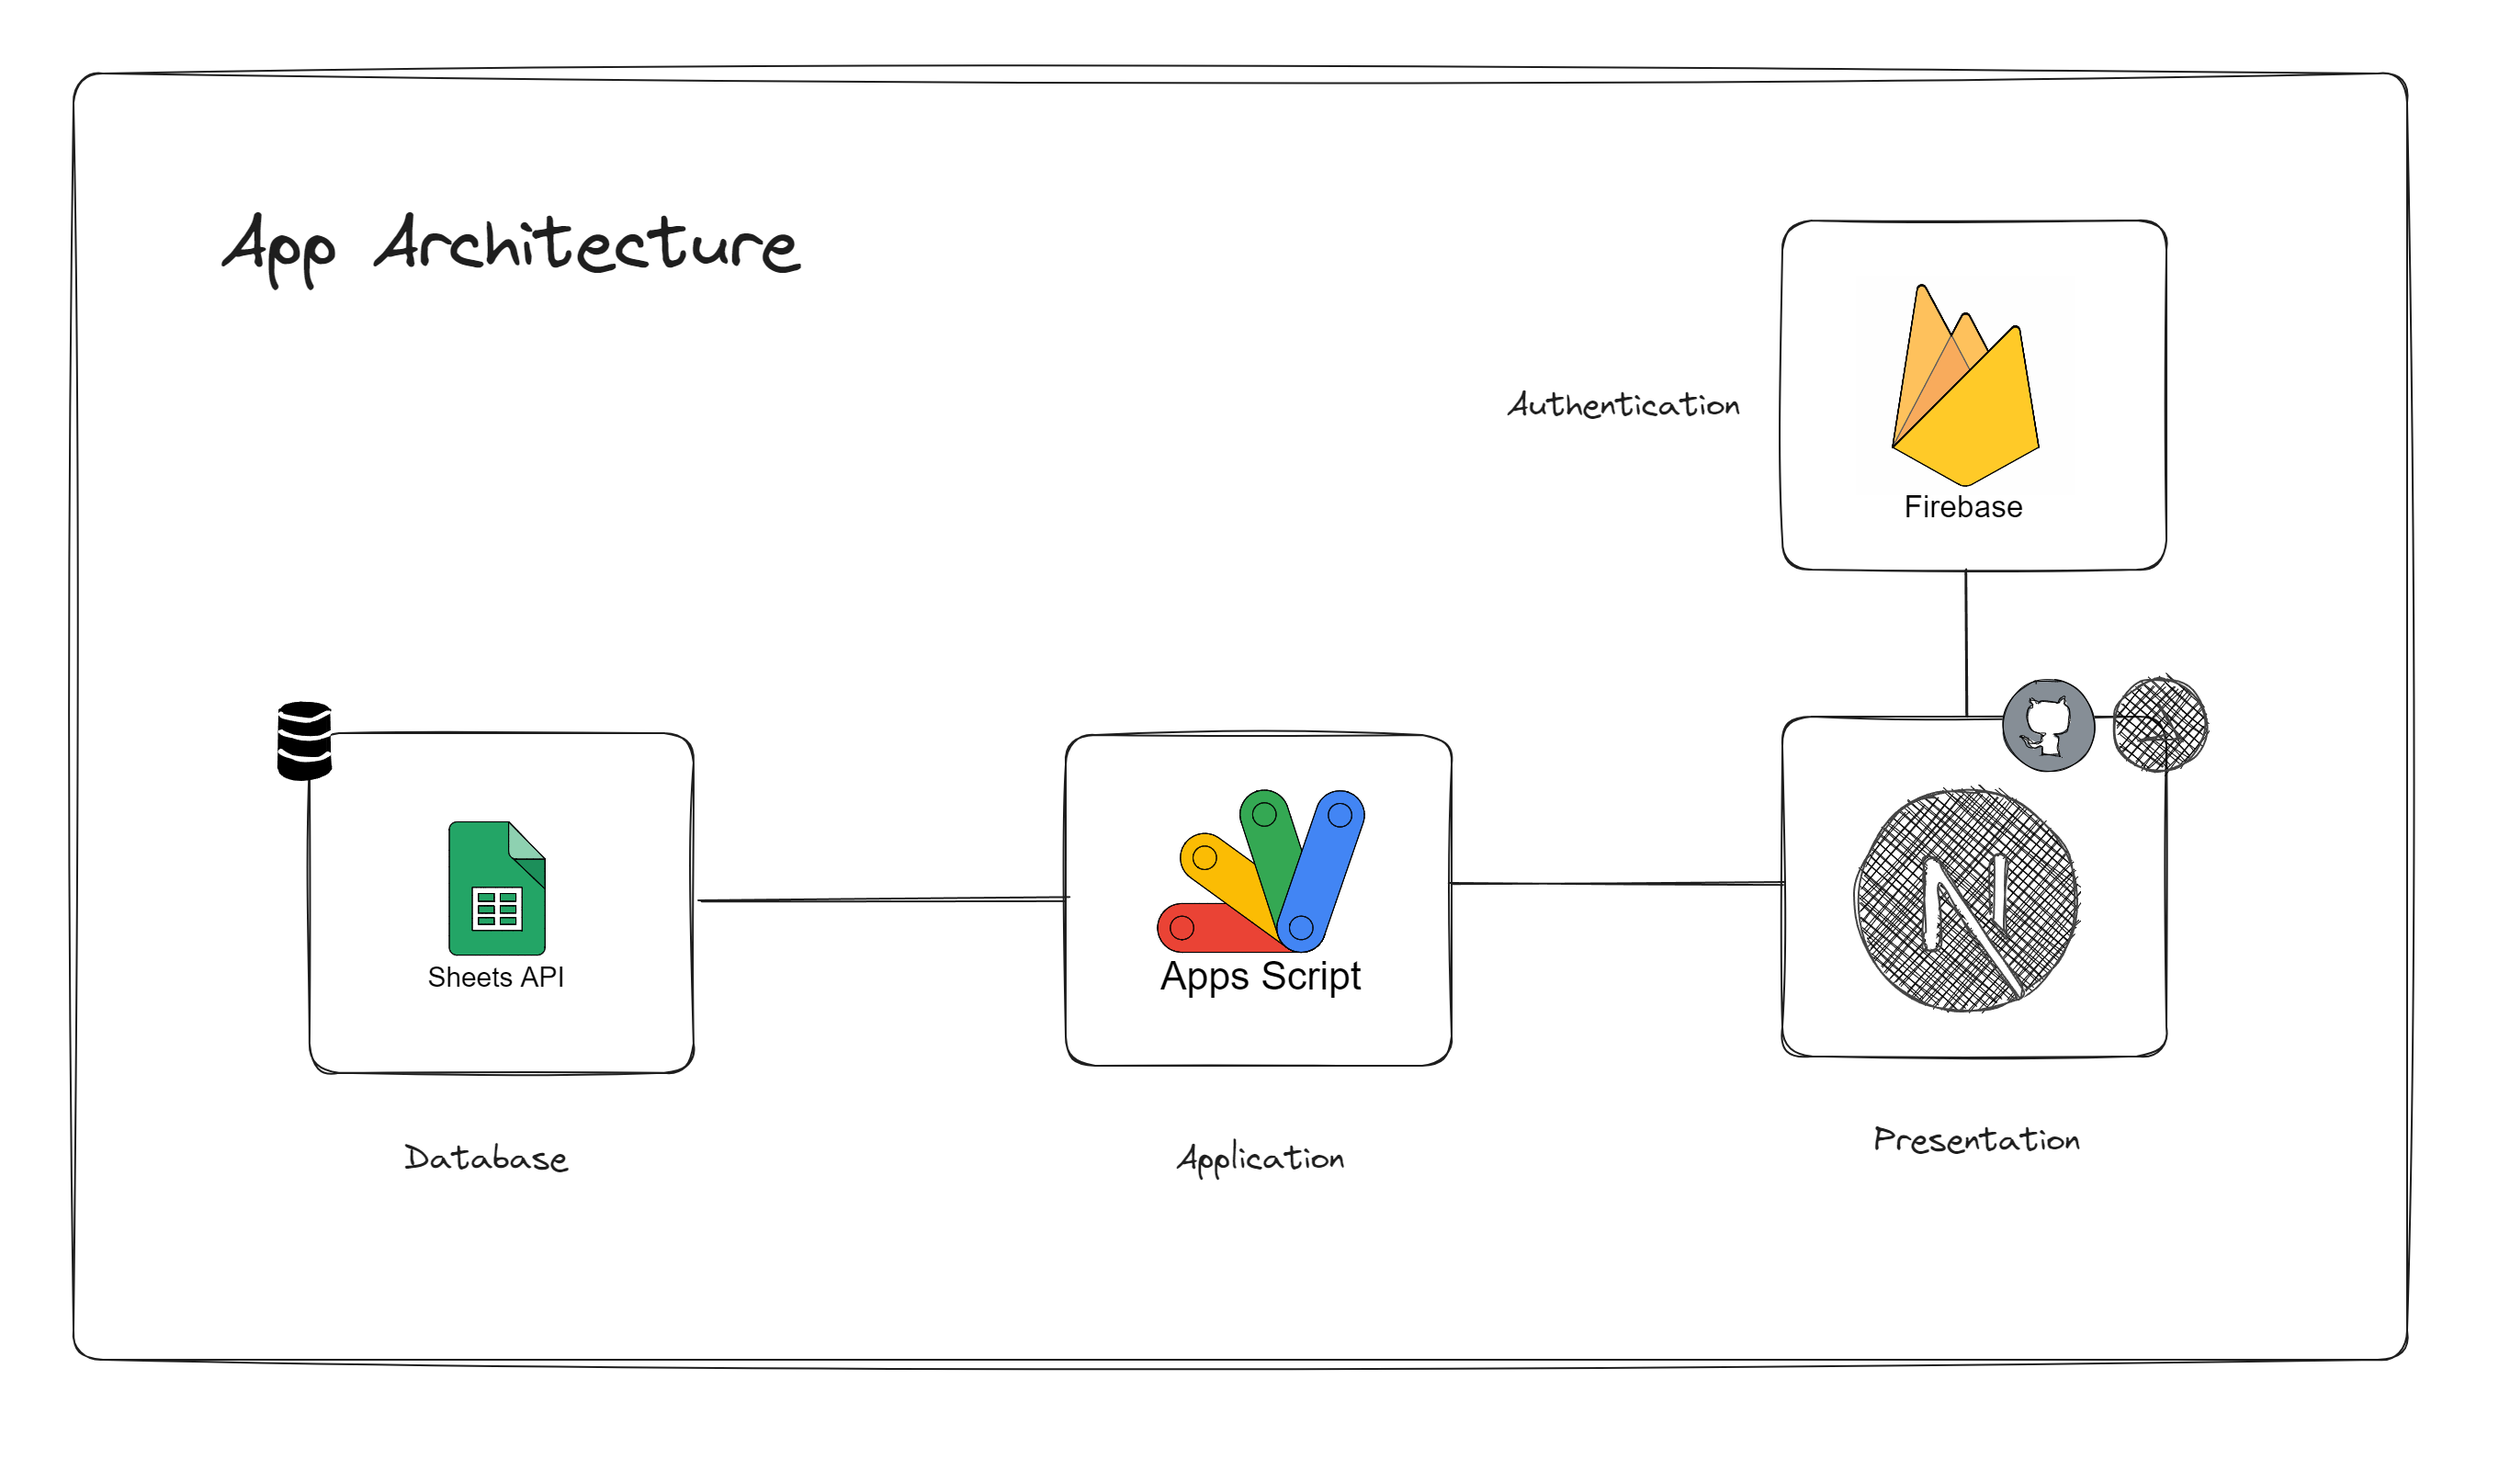
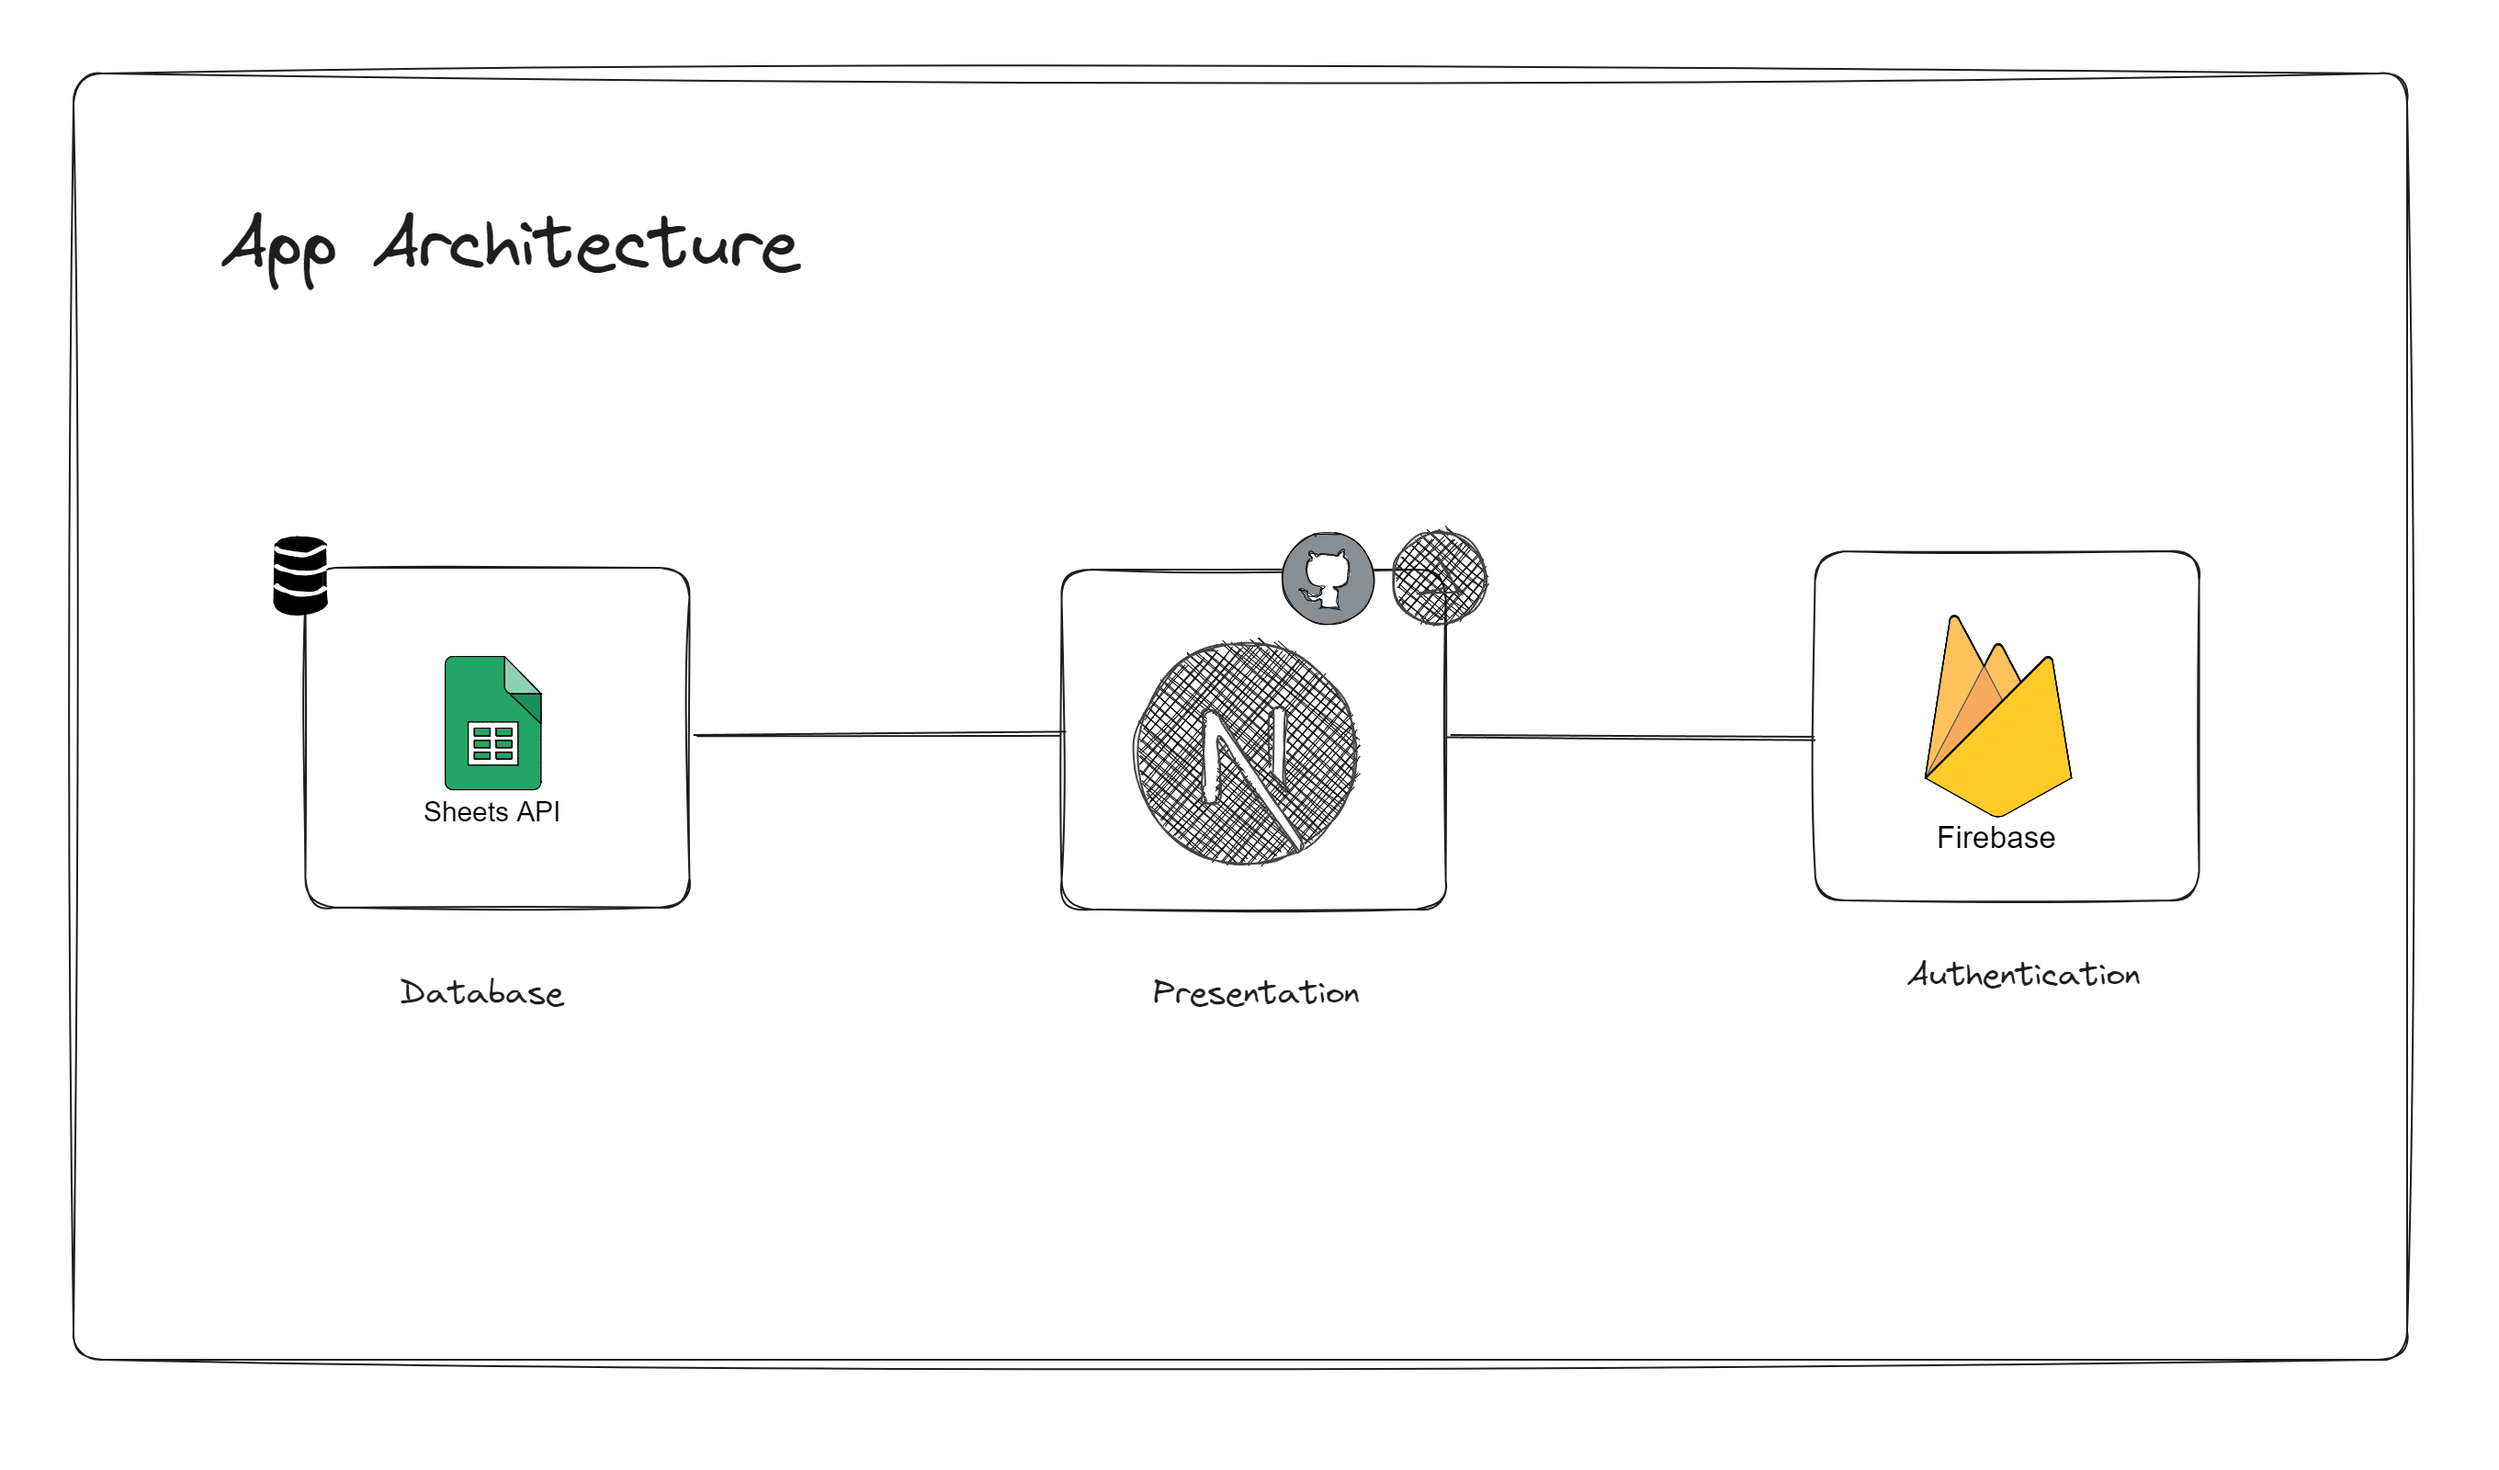
done
done migrate api from appscript to nextjs api

diff --git a/src/app/components/Chart.jsx b/src/app/components/Chart.jsx
@@ -4,60 +4,14 @@ import { useColorScheme } from "@mui/joy/styles";
 import Box from "@mui/joy/Box";
 import { ResponsiveBar } from "@nivo/bar";
 
-const data = {
-  Fisik: {
-    "Eks Kronis (Kusta, Stroke)": 3,
-    "Tubuh Punggung (Bungkuk)": 1,
-    Wicara: 4,
-    "Tubuh Kaki": 9,
-    Netra: 1,
-    Rungu: 1,
-    "Tubuh Tangan": 4,
-    "Disabilitas Lain": 1,
-  },
-  Mental: { "Psikososial (Psikotik)": 29 },
-  Intelektual: { "Down Sysdrom": 3 },
-  "Ganda/Multi": { "Lumpuh Layu/Kaku": 3, "Rungu Wicara": 1 },
-  Sensorik: { Hiperaktif: 1, Autis: 1 },
-};
-
-export default function Chart({ chartData }) {
+export default function Chart({ chartData, tipeDisabilitas }) {
   const { mode, systemMode } = useColorScheme();
-  const data = chartData.data;
+  const data = chartData;
+  // make array of my object tipeDisabilitas with Kedisabilitasan value
+  const jenisUnique = tipeDisabilitas.map((e) => e.Kedisabilitasan);
+
   const keys = Object.keys(data);
 
-  const data3 = keys.map((key) => {
-    const obj = {};
-    obj["disabilitas"] = key;
-    obj["Jumlah"] = Object.values(data[key]).reduce((a, b) => a + b, 0);
-    obj["Jenis"] = Object.keys(data[key]).map((k) => {
-      return {
-        jenis: k,
-        jumlah: data[key][k],
-      };
-    });
-
-    return obj;
-  });
-
-  // get array unique values of object in jenis
-  const jenis = data3.map((d) => d.Jenis).flat();
-  const jenisUnique = [...new Set(jenis.map((j) => j.jenis))];
-
-  // make data3 to be like data
-  data3.forEach((d) => {
-    jenisUnique.forEach((j) => {
-      d[j] = d.Jenis.filter((jenis) => jenis.jenis === j).map(
-        (jenis) => jenis.jumlah
-      )[0];
-    });
-    //   if undefined, set to 0
-    jenisUnique.forEach((j) => {
-      if (d[j] === undefined) {
-        d[j] = 0;
-      }
-    });
-  });
   const theme = {
     axis: {
       fontSize: "14px",
@@ -91,9 +45,9 @@ export default function Chart({ chartData }) {
       }}
     >
       <ResponsiveBar
-        data={data3}
+        data={data}
         keys={jenisUnique}
-        indexBy={"disabilitas"}
+        indexBy={"JenisDisabilitas"}
         margin={{ top: 50, right: 130, bottom: 50, left: 60 }}
         padding={0.3}
         valueScale={{ type: "linear" }}

diff --git a/src/app/dashboard/page.js b/src/app/dashboard/page.js
@@ -12,28 +12,35 @@ export const revalidate = 10;
 
 // export const dynamic = "force-dynamic";
 async function getDataBLT() {
-  const res = await fetch(
-    process.env.NEXT_PUBLIC_API + "?endpoint=jumlah-penerima-blt"
-  );
+  const res = await fetch(`${process.env.NEXT_PUBLIC_HOST}/api/bantuan/jumlah`);
   return res.json();
 }
 async function getDataDisabilitas() {
   const res = await fetch(
-    process.env.NEXT_PUBLIC_HOST + "/api/disabilitas/jumlah"
+    `${process.env.NEXT_PUBLIC_HOST}/api/disabilitas/jumlah`
   );
   return res.json();
 }
 
 async function getDataChart() {
   const res = await fetch(
-    process.env.NEXT_PUBLIC_API + "?endpoint=chart-disabilitas"
+    `${process.env.NEXT_PUBLIC_HOST}/api/disabilitas/chart`
   );
   return res.json();
 }
+
+async function getTipeDisabilitas() {
+  const res = await fetch(
+    `${process.env.NEXT_PUBLIC_HOST}/api/disabilitas/tipe-disabilitas`
+  );
+  return res.json();
+}
+
 export default async function Home() {
-  const dataBLT = await getDataBLT();
-  const dataDisabilitas = await getDataDisabilitas();
+  const countBantuan = await getDataBLT();
+  const countDisabilitas = await getDataDisabilitas();
   const chartDisabilitas = await getDataChart();
+  const tipeDisabilitas = await getTipeDisabilitas();
   return (
     <>
       <Box sx={{ display: "flex", alignItems: "center" }}>
@@ -59,8 +66,8 @@ export default async function Home() {
         }}
       >
         <CardDashboard
-          BLT={dataBLT?.data}
-          Disabilitas={dataDisabilitas?.count}
+          BLT={countBantuan?.count}
+          Disabilitas={countDisabilitas?.count}
         />
       </Box>
       <Box
@@ -121,7 +128,10 @@ export default async function Home() {
                 />
               </Tooltip>
             </CardContent>
-            <Chart chartData={chartDisabilitas} />
+            <Chart
+              tipeDisabilitas={tipeDisabilitas}
+              chartData={chartDisabilitas}
+            />
           </CardContent>
         </Card>
       </Box>

diff --git a/src/app/dashboard/program-keluarga-harapan/Table.jsx b/src/app/dashboard/program-keluarga-harapan/Table.jsx
@@ -38,7 +38,7 @@ import { toast, Toaster } from "sonner";
 export default function TablePKH({ data }) {
   const [rowData, setRowData] = useState([]);
   const [search, setSearch] = useState("");
-  const [rowSum, setRowSum] = useState(data.data.length);
+  const [rowSum, setRowSum] = useState(data.length);
   const [page, setPage] = useState(1);
   const [maxPage, setMaxPage] = useState(Math.ceil(rowSum / 10));
   const [totalPage, setTotalPage] = useState(Math.ceil(rowSum / 10));
@@ -94,7 +94,7 @@ export default function TablePKH({ data }) {
   useEffect(() => {
     if (search) {
       //   filter with NIK and NAMA keluarga and alamat
-      const filteredData = data.data.filter((item) => {
+      const filteredData = data.filter((item) => {
         return (
           item.NIK.toLowerCase().includes(search.toLowerCase()) ||
           item.KepalaKeluarga.toLowerCase().includes(search.toLowerCase()) ||
@@ -110,14 +110,14 @@ export default function TablePKH({ data }) {
       setRowData(filteredData.slice(start, end));
       setMaxPage(Math.ceil(filteredData.length / 10));
     } else {
-      setRowData(data.data);
-      setRowSum(data.data.length);
-      setTotalPage(Math.ceil(data.data.length / 10));
+      setRowData(data);
+      setRowSum(data.length);
+      setTotalPage(Math.ceil(data.length / 10));
       setPage(1);
       const start = (page - 1) * 10;
       const end = page * 10;
-      setRowData(data.data.slice(start, end));
-      setMaxPage(Math.ceil(data.data.length / 10));
+      setRowData(data.slice(start, end));
+      setMaxPage(Math.ceil(data.length / 10));
     }
   }, [search]);
 
@@ -125,7 +125,7 @@ export default function TablePKH({ data }) {
     //   pagination
     const start = (page - 1) * 10;
     const end = page * 10;
-    setRowData(data.data.slice(start, end));
+    setRowData(data.slice(start, end));
     setMaxPage(Math.ceil(rowSum / 10));
   }, [page]);
   return (

diff --git a/src/app/api/bantuan/data/route.js b/src/app/api/bantuan/data/route.js
@@ -1,24 +1,24 @@
 import { NextResponse } from "next/server";
-import auth from "@/app/services/google";
 import { google } from "googleapis";
+import auth from "@/app/services/google";
 
 export const revalidate = 5;
-
 export async function GET(request) {
   const spreadsheetId = process.env.GOOGLE_SPREASHEET_ID;
   const sheets = google.sheets({ version: "v4", auth });
 
+  const includedColumns = ["NIK", "KepalaKeluarga", "Alamat"];
+
   const getMetaData = await sheets.spreadsheets.values.get({
     auth,
     spreadsheetId,
-    range: "Disabilitas!A:Z",
+    range: "BLT!A:Z",
   });
 
-  // get count of my data
   const data = getMetaData.data.values;
   const headers = data[0];
   const rows = data.slice(1);
-  const includedColumnIndexes = headers.map((column) =>
+  const includedColumnIndexes = includedColumns.map((column) =>
     headers.indexOf(column)
   );
   const filteredRows = rows.map((row) =>
@@ -26,13 +26,10 @@ export async function GET(request) {
   );
   const mappedData = filteredRows.map((row) => {
     const mappedRow = {};
-    row.forEach((column, index) => {
-      mappedRow[headers[index]] = column;
+    row.forEach((value, index) => {
+      mappedRow[includedColumns[index]] = value;
     });
     return mappedRow;
   });
-  const count = mappedData.length;
-  return NextResponse.json({
-    count: count,
-  });
+  return NextResponse.json(mappedData);
 }

diff --git a/src/app/dashboard/penyandang-disabilitas/page.jsx b/src/app/dashboard/penyandang-disabilitas/page.jsx
@@ -9,20 +9,20 @@ import Table from "@/app/dashboard/penyandang-disabilitas/Table";
 export const revalidate = 5;
 async function getData() {
   const res = await fetch(
-    process.env.NEXT_PUBLIC_HOST + "/api/disabilitas/data"
+    `${process.env.NEXT_PUBLIC_HOST}/api/disabilitas/data`
   );
   return res.json();
 }
 async function getDataFilterKedisabilitasan() {
   const res = await fetch(
-    process.env.NEXT_PUBLIC_HOST + "/api/disabilitas/tipe-disabilitas"
+    `${process.env.NEXT_PUBLIC_HOST}/api/disabilitas/tipe-disabilitas`
   );
   return res.json();
 }
 
 async function getDataFilterKemiskinan() {
   const res = await fetch(
-    process.env.NEXT_PUBLIC_HOST + "/api/disabilitas/tipe-kemiskinan"
+    `${process.env.NEXT_PUBLIC_HOST}/api/disabilitas/tipe-kemiskinan`
   );
   return res.json();
 }

diff --git a/src/app/dashboard/penyandang-disabilitas/Table.jsx b/src/app/dashboard/penyandang-disabilitas/Table.jsx
@@ -133,7 +133,7 @@ export default function TablePKH({ data, listKemiskinan, listDisabilitas }) {
             >
               Semua
             </Option>
-            {listDisabilitas.map((item) => (
+            {listDisabilitas?.map((item) => (
               <Option
                 key={item.Kedisabilitasan}
                 onClick={() => setFilterKedisabilitasan(item.Kedisabilitasan)}

diff --git a/src/app/api/disabilitas/data/route.js b/src/app/api/disabilitas/data/route.js
@@ -30,9 +30,9 @@ import auth from "@/app/services/google";
 //    Kemiskinan: "XXXXXXXXXXXXXXXX",
 //    Kedisabilitasan: "XXXXXXXXXXXXXXXX"
 //  }],
+export const revalidate = 5;
 export async function GET(request) {
   const spreadsheetId = process.env.GOOGLE_SPREASHEET_ID;
-
   const sheets = google.sheets({ version: "v4", auth });
 
   const includedColumns = [

diff --git a/src/app/dashboard/program-keluarga-harapan/page.jsx b/src/app/dashboard/program-keluarga-harapan/page.jsx
@@ -9,9 +9,7 @@ import Add from "./Add";
 export const revalidate = 5;
 //
 async function getData() {
-  const res = await fetch(
-    process.env.NEXT_PUBLIC_API + "?endpoint=daftar-penerima-blt"
-  );
+  const res = await fetch(`${process.env.NEXT_PUBLIC_HOST}/api/bantuan/data`);
   return res.json();
 }
 

diff --git a/src/app/api/disabilitas/tipe-disabilitas/route.js b/src/app/api/disabilitas/tipe-disabilitas/route.js
@@ -2,6 +2,8 @@ import { NextResponse } from "next/server";
 import { google } from "googleapis";
 import auth from "@/app/services/google";
 
+export const revalidate = 86400;
+
 export async function GET(request) {
   const spreadsheetId = process.env.GOOGLE_SPREASHEET_ID;
 

diff --git a/src/app/api/disabilitas/tipe-kemiskinan/route.js b/src/app/api/disabilitas/tipe-kemiskinan/route.js
@@ -2,6 +2,7 @@ import { NextResponse } from "next/server";
 import { google } from "googleapis";
 import auth from "@/app/services/google";
 
+export const revalidate = 86400;
 export async function GET(request) {
   const spreadsheetId = process.env.GOOGLE_SPREASHEET_ID;
 

diff --git a/src/app/api/disabilitas/chart/route.js b/src/app/api/disabilitas/chart/route.js
@@ -2,6 +2,8 @@ import { NextResponse } from "next/server";
 import { google } from "googleapis";
 import auth from "@/app/services/google";
 
+export const revalidate = 5;
+
 export async function GET(request) {
   const spreadsheetId = process.env.GOOGLE_SPREASHEET_ID;
 

diff --git a/src/app/api/bantuan/jumlah/route.js b/src/app/api/bantuan/jumlah/route.js
@@ -11,7 +11,7 @@ export async function GET(request) {
   const getMetaData = await sheets.spreadsheets.values.get({
     auth,
     spreadsheetId,
-    range: "Disabilitas!A:Z",
+    range: "BLT!A:Z",
   });
 
   // get count of my data
